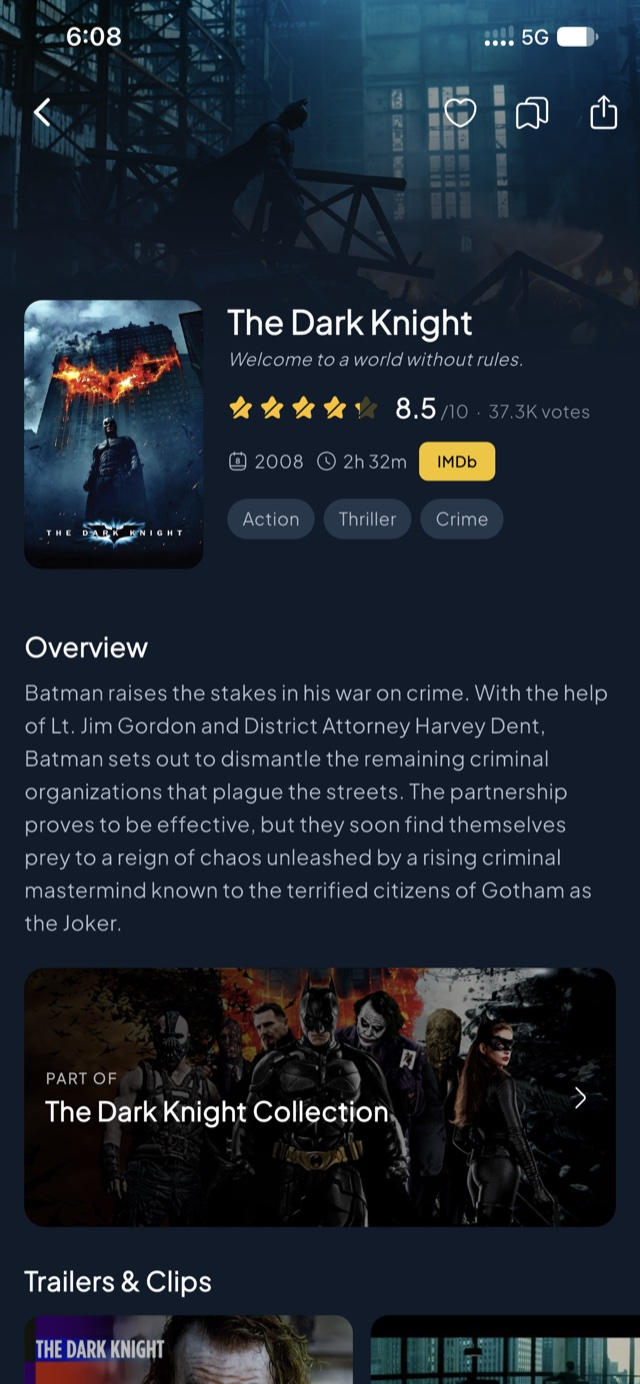
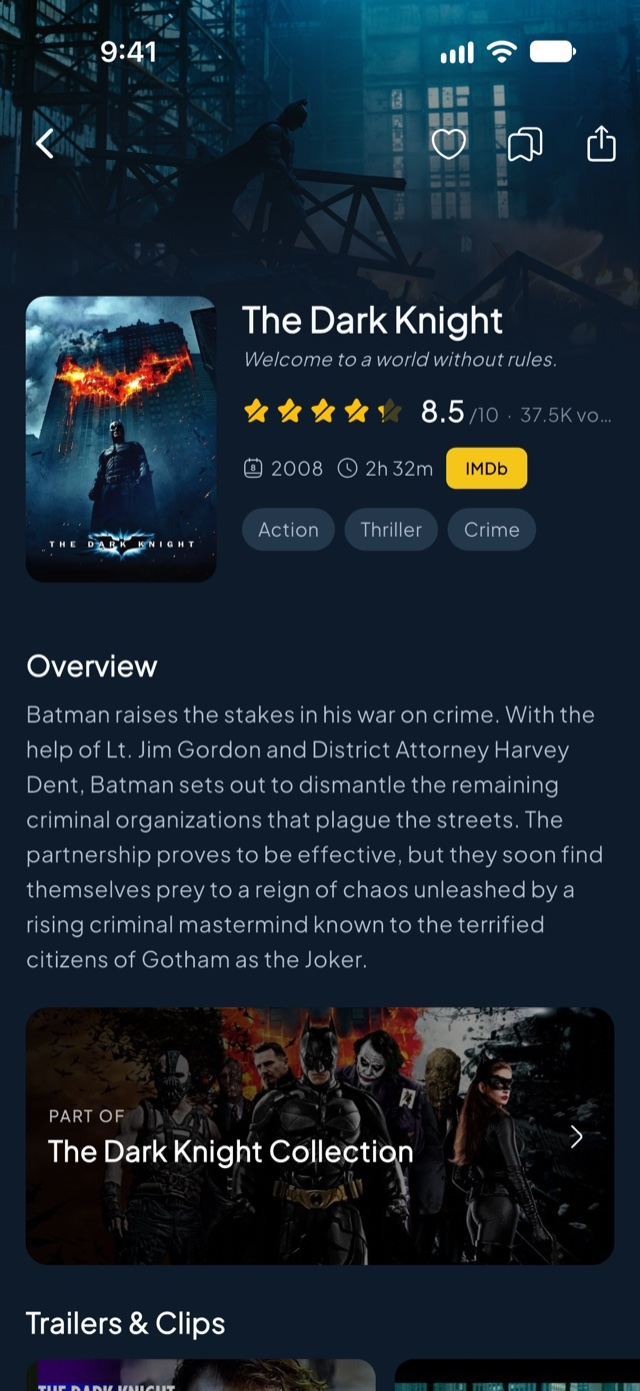
docs: refresh README screenshots and document UI polish

diff --git a/README.md b/README.md
@@ -21,6 +21,7 @@ A movie & TV browser built on top of [The Movie Database (TMDB) API](https://dev
 - **http** for networking (wrapped by `core/network/api_client.dart`)
 - **hive** for local persistence of favourites, watchlist & settings (theme + Library prefs)
 - **cached_network_image**, **shimmer**, **iconsax_plus**, **google_fonts** for UI
+- **native_glass_navbar** — native UIKit Liquid Glass tab bar on iOS 26+ (Cupertino / Material fallbacks elsewhere)
 - **youtube_player_flutter** (in-app trailers) · **url_launcher** ("Watch on YouTube" fallback · IMDb & JustWatch deep links) · **saver_gallery** (save backdrops to the device gallery) · **share_plus** (system share sheet)
 - **bloc_test**, **mocktail**, **integration_test** for tests
 - **GitHub Actions** CI (format + analyze + test + coverage), curated lints on top of **flutter_lints**, and ADRs in `docs/adr/`
@@ -147,16 +148,19 @@ lib/
 │   └── widgets/                # Poster kernel shared by movies + TV:
 │       ├── common/             # AppSearchField, AppSegmentedControl (sliding pill toggle —
 │       │                       # Discover Movies/TV + Search scope), RatingBadge, RatingStars,
-│       │                       # AppErrorView, AppEmptyView
+│       │                       # AppErrorView, AppEmptyView, Pressable (press-scale feedback),
+│       │                       # FadeSlideIn (staggered entrance motion)
 │       ├── poster/             # PosterGrid, PosterCard, PosterImage, SectionedPosterGrid
 │       │                       # (Library movie/TV split)
 │       ├── feed/               # FeaturedHero + FeaturedCarousel (auto-sliding trending hero),
-│       │                       # CategoryTabBar
+│       │                       # ImmersiveFeedScaffold (app bar over the hero, solid on
+│       │                       # scroll) + FeedStateSwitcher (skeleton/error/feed), CategoryTabBar
 │       ├── detail/             # detail_cards (DetailHeader/Summary/CastList/PosterRail/
 │       │                       # VideoRail/ReviewsSection/ImageGallery), WatchProvidersSection,
 │       │                       # ImdbChip, ShareButton, TrailerPlayerScreen, ImageGalleryViewer
 │       ├── skeletons/          # PosterGridSkeleton, RailFeedSkeleton, DetailSkeleton shimmers
-│       └── root_screen.dart    # RootScreen (5-tab shell)
+│       └── root_screen.dart    # RootScreen (5-tab shell; native glass / Cupertino /
+│                               # Material tab bar by platform)
 ├── injection_container.dart    # GetIt registrations
 ├── app.dart                    # MaterialApp + global providers
 └── main.dart                   # boot: Env.init → di.init → runApp
@@ -271,7 +275,7 @@ To run E2E against the real TMDB API, comment out `_swapApiClient()` in `setUpAl
 
 ## Features
 
-- **Editorial home** — a trending **hero carousel** (auto-advancing, seamless loop, page-indicator dots) over curated rails: **For You**, Now Playing, Top Rated, Upcoming, and Popular Series. Each rail's **See all** opens a full, infinite-scroll category grid.
+- **Editorial home** — a trending **hero carousel** (auto-advancing, seamless loop, page-indicator dots) that extends under a **transparent app bar**, which fades to solid navy as you scroll (shared with the Series tab), over curated rails: **For You**, Now Playing, Top Rated, Upcoming, and Popular Series. Each rail's **See all** opens a full, infinite-scroll category grid.
 - **For You** — personalised recommendations seeded from your recent favourites & watchlist, ranked by how many of them recommend each title and de-duplicated against everything you've already saved; refreshes live as you save/unsave.
 - **Global search** (movies + TV + people) with 400 ms debounce and an **All / Movies / TV / People** filter — each scope routes to its own `/search/{multi,movie,tv,person}` endpoint so every type paginates in full. Reachable from the Home, Series & Discover app bars.
 - **Infinite scroll** + pull-to-refresh on the "See all" category and Discover grids.
@@ -290,7 +294,8 @@ To run E2E against the real TMDB API, comment out `_swapApiClient()` in `setUpAl
 - **Watchlist** — a separate "watch later" list spanning **both movies and TV shows**, persisted locally via Hive and reactive like favourites. A bookmark toggle on movie & TV detail saves/removes; each saved card carries a MOVIE/TV chip and routes back to the matching detail screen.
 - **Shared-element transition** — tapping a trending hero slide, a favourites/watchlist card, or a movie's collection banner flies its backdrop into the destination header with a corner-radius interpolation (16 → 0), on **both push and pop**. The detail route pops normally, so the iOS edge-swipe-back gesture works alongside the hero flight.
 - **Profile tab** showing favourites count, an **Appearance** picker (System / Light / Dark), and destructive "Clear favourites" / "Clear watchlist" flows with confirm dialogs.
-- **Five-tab shell** — Home · Discover · Series · Library · Profile, lazily built and kept alive via `IndexedStack`. The **Library** tab combines Favourites and Watchlist under one app bar with two segments, plus shared **sort** (recently added · title A–Z · top rated · release date) and **list/grid view** controls that reorder and re-lay-out both segments — in grid view each segment is split into **Movies** and **TV Shows** sections (`SectionedPosterGrid`). Both the sort and the view are **persisted** across launches.
+- **Five-tab shell** — Home · Discover · Series · Library · Profile, lazily built and kept alive via `IndexedStack`. The tab bar is platform-native: a UIKit **Liquid Glass** bar with SF Symbols on iOS 26+ (content scrolls beneath it), a `CupertinoTabBar` on older iOS, and a Material 3 `NavigationBar` on Android. The **Library** tab combines Favourites and Watchlist under one app bar with two segments, plus shared **sort** (recently added · title A–Z · top rated · release date) and **list/grid view** controls that reorder and re-lay-out both segments — in grid view each segment is split into **Movies** and **TV Shows** sections (`SectionedPosterGrid`). Both the sort and the view are **persisted** across launches.
 - **Skeleton loading** — Home, Series, Discover, Library, Search, and the movie/TV detail pages load behind shimmer skeletons that mirror their real layouts (no spinners, no layout shift).
+- **Motion & feedback** — feeds crossfade from skeleton to content with rails and grid cells fading in on a short stagger (skipped when the OS "reduce motion" setting is on); posters scale down slightly on press; rating badges over artwork sit on a solid dark backing so they stay legible on any poster.
 - **Responsive grid** — 3 columns on mobile, scaling 4–7 on tablet (clamped on `width / 180`); aspect ratio shifts slightly between tiers.
 - **Light & dark mode** — user-selectable **System / Light / Dark** via a `ThemeCubit` that drives `MaterialApp.themeMode` and **persists** the choice (Hive `settings` box), changed from the Profile tab's Appearance picker. Theme-dependent surfaces/text live on `AppColors` instances (`AppColors.light` / `AppColors.dark`) and resolve at the call site via `context.colors`; brand and semantic colors stay as static constants.
